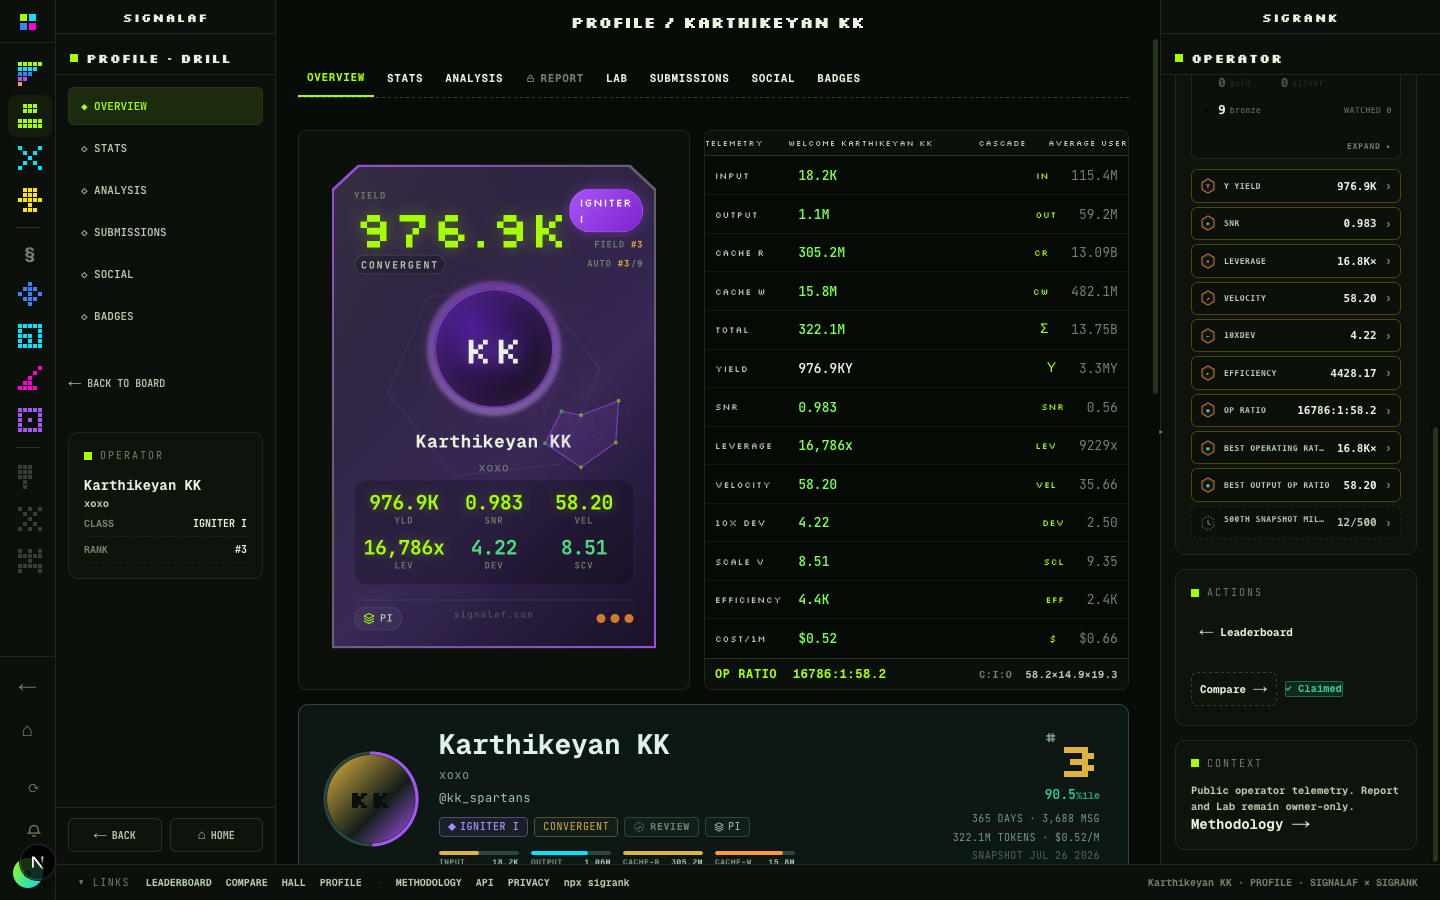
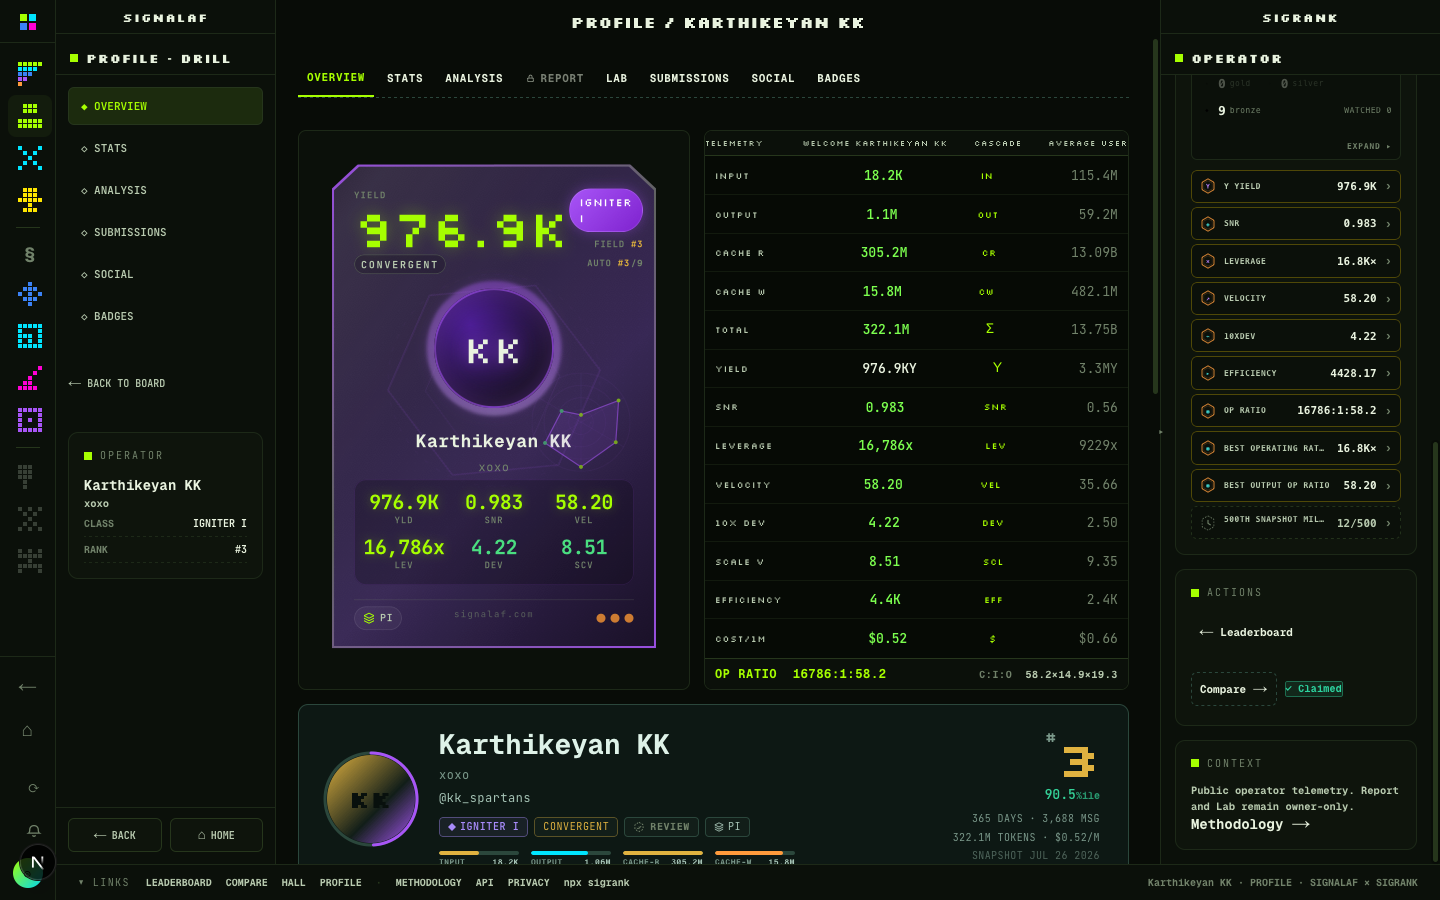
fix(profile): even ticker gaps, scaled rail heatmap, centered popups
- FlapBoard: columns size to content with justify-content:space-between —
  equal gaps everywhere, no dead gutter between operator and cascade.
- SUBMISSION ACTIVITY: the whole 22-week grid renders scaled inside the
  sidebar trigger; click opens the same map in a dialog centered in the
  window (fixed inset:0 + margin:auto).
- OPERATOR PROFILE mod yield uses compact formatting (976.9K, not
  976944.23 — matches the card shorthand).
- RailDialog trigger becomes role=button div (hosts block grid content).

e2e 36/36 PASS (full-scaled-heatmap in rail, centered dialog, equal
gaps, unchanged record dialogs/medallions).

Generated with [Devin](https://devin.ai)

diff --git a/components/profile-v2/profile-workspace.css b/components/profile-v2/profile-workspace.css
@@ -81,16 +81,16 @@
 
 /* Railway flap board — black phosphor stats terminal (mock .flapboard). */
 .lbw-root .pv2 .pv2-flapboard{background:#060a05;border:1px solid var(--line);border-radius:8px;overflow:hidden;display:flex;flex-direction:column;min-width:0}
-.lbw-root .pv2 .pv2-flap-cols{display:grid;grid-template-columns:minmax(8.5ch,auto) auto minmax(2ch,1fr) auto;column-gap:12px;border-bottom:1px solid var(--line2);background:var(--bg2)}
+.lbw-root .pv2 .pv2-flap-cols{display:grid;grid-template-columns:minmax(8.5ch,max-content) max-content max-content max-content;justify-content:space-between;column-gap:14px;border-bottom:1px solid var(--line2);background:var(--bg2)}
 .lbw-root .pv2 .pv2-flap-cols span{font-family:var(--pv2-display,monospace);font-size:8px;letter-spacing:.12em;color:var(--tx2);padding:6px 0;text-transform:uppercase;white-space:nowrap}
-.lbw-root .pv2 .pv2-flap-cols span:nth-child(3){text-align:right;padding-right:10px}
+.lbw-root .pv2 .pv2-flap-cols span:nth-child(3){text-align:right}
 .lbw-root .pv2 .pv2-flap-cols span:nth-child(4){text-align:right}
 .lbw-root .pv2 .pv2-flap-rows{display:flex;flex-direction:column;padding:1px 0;flex:1}
-.lbw-root .pv2 .pv2-flap-row{display:grid;grid-template-columns:minmax(8.5ch,auto) auto minmax(2ch,1fr) auto;column-gap:12px;align-items:center;padding:3.5px 10px;border-bottom:1px solid rgba(29,41,24,.5);font-variant-numeric:tabular-nums;flex:1}
+.lbw-root .pv2 .pv2-flap-row{display:grid;grid-template-columns:minmax(8.5ch,max-content) max-content max-content max-content;justify-content:space-between;column-gap:14px;align-items:center;padding:3.5px 10px;border-bottom:1px solid rgba(29,41,24,.5);font-variant-numeric:tabular-nums;flex:1}
 .lbw-root .pv2 .pv2-flap-row:last-child{border-bottom:none}
 .lbw-root .pv2 .pv2-flap-row .fk{font-family:var(--pv2-display,monospace);font-size:9px;letter-spacing:.1em;color:var(--tx2);text-transform:uppercase}
 .lbw-root .pv2 .pv2-flap-row .fv{font-family:var(--pv2-mono,monospace);font-size:13px;font-weight:600;color:#7cff4f;text-align:left}
-.lbw-root .pv2 .pv2-flap-row .ck{font-family:var(--pv2-display,monospace);font-size:9px;letter-spacing:.08em;color:var(--ac);text-align:right;padding-right:10px;justify-self:end}
+.lbw-root .pv2 .pv2-flap-row .ck{font-family:var(--pv2-display,monospace);font-size:9px;letter-spacing:.08em;color:var(--ac);text-align:right}
 .lbw-root .pv2 .pv2-flap-row .cv{font-family:var(--pv2-mono,monospace);font-size:13px;font-weight:600;color:#b9cbb0;text-align:right}
 .lbw-root .pv2 .pv2-flap-row .cv.avg{color:#71826a;font-weight:400}
 .lbw-root .pv2 .pv2-flap-row .fv.gold{color:var(--gold)}
@@ -198,7 +198,7 @@
 .lbw-root .prl-rec-chev{color:var(--mut);font-size:12px;flex-shrink:0}
 
 /* Record detail dialog. */
-.lbw-root .prl-dialog{border:1px solid var(--line2);border-radius:10px;background:var(--bg);color:var(--tx);padding:0;max-width:360px;width:calc(100vw - 48px);box-shadow:0 24px 70px rgba(0,0,0,.6)}
+.lbw-root .prl-dialog{position:fixed;inset:0;margin:auto;height:fit-content;max-height:85vh;overflow:auto;border:1px solid var(--line2);border-radius:10px;background:var(--bg);color:var(--tx);padding:0;max-width:360px;width:calc(100vw - 48px);box-shadow:0 24px 70px rgba(0,0,0,.6)}
 .lbw-root .prl-dialog::backdrop{background:rgba(0,0,0,.55);backdrop-filter:blur(2px)}
 .lbw-root .prl-dialog-card{padding:16px 18px}
 .lbw-root .prl-dialog-head{display:flex;align-items:center;gap:10px;padding-bottom:10px;border-bottom:1px solid var(--line)}
@@ -220,9 +220,11 @@
 .lbw-root .prl-open:focus-visible{outline:2px solid var(--ac);outline-offset:1px}
 .lbw-root .prl-open-hint{align-self:flex-end;font:600 8px var(--pv2-mono,monospace);letter-spacing:.1em;color:var(--mut)}
 .lbw-root .prl-open:hover .prl-open-hint{color:var(--ac)}
-/* Weekly spark strip — 22 cells, one per week (last lit day wins). */
-.lbw-root .prl-spark{display:grid;grid-template-columns:repeat(22,1fr);gap:2px;width:100%}
-.lbw-root .prl-spark i{aspect-ratio:1/1.6;border-radius:1.5px;background:var(--bg);border:1px solid rgba(255,255,255,.03)}
+/* Rail-scaled heatmap — same grid compressed to sidebar width. */
+.lbw-root .prl-heat--rail .prl-heat-grid{gap:1.5px}
+.lbw-root .prl-heat--rail .prl-heat-col{gap:1.5px}
+.lbw-root .prl-heat--rail .prl-heat-cell{border-radius:1.5px}
+.lbw-root .prl-heat--rail .prl-heat-stats{margin-top:6px;padding-top:6px}
 /* Trigger strips keep their compact spacing inside the button. */
 .lbw-root .prl-open .prl-heat-stats{margin-top:0;padding-top:0;border-top:0}
 .lbw-root .prl-open .prl-medals{margin-top:0}

diff --git a/components/profile-v2/ProfileRailPanels.tsx b/components/profile-v2/ProfileRailPanels.tsx
@@ -185,13 +185,8 @@ export async function ProfileRailPanels({ row }: { row: LeaderboardRow }) {
     const ab = new Date((startDay + w * 7) * dayMs).toUTCString().slice(8, 11).toUpperCase();
     if (monthSet[monthSet.length - 1] !== ab) monthSet.push(ab);
   }
-  // Weekly spark strip for the compact rail trigger: one cell per week —
-  // the last lit day's color, else unlit.
-  const weekColors = Array.from({ length: 22 }, (_, w) => {
-    const wk = cells.slice(w * 7, w * 7 + 7);
-    for (let d = wk.length - 1; d >= 0; d--) if (wk[d].bg) return wk[d].bg;
-    return null;
-  });
+  /* The full 154-cell grid renders scaled inside the rail trigger and again
+     (same cells) inside the centered popup — no separate preview data. */
 
   /* ── Records (items 8–10): static Hall + dynamic top-3 standings ─────── */
   const names = new Set<string>([codename]);
@@ -319,8 +314,9 @@ export async function ProfileRailPanels({ row }: { row: LeaderboardRow }) {
         </div>
       </div>
 
-      {/* SUBMISSION ACTIVITY — compact strip; full grid pops up in-window
-          on click (owner direction — never a stage-body element). */}
+      {/* SUBMISSION ACTIVITY — the whole 22-week grid scaled into the
+          sidebar; click pops the same map centered in-window with the
+          legend (owner direction — never a stage-body element). */}
       <div className="mod">
         <h3><span className="sq" />SUBMISSION ACTIVITY</h3>
         <RailDialog
@@ -328,19 +324,23 @@ export async function ProfileRailPanels({ row }: { row: LeaderboardRow }) {
           title="SUBMISSION ACTIVITY"
           subtitle={`DAILY YIELD VS OPERATOR BASELINE · ${operator.account_age_days}D · ${num(operator.total_messages_lifetime)} MSG`}
           trigger={
-            <>
-              <span className="prl-heat-stats">
+            <div className="prl-heat prl-heat--rail">
+              <div className="prl-heat-grid">
+                {Array.from({ length: 22 }, (_, w) => (
+                  <div key={w} className="prl-heat-col">
+                    {cells.slice(w * 7, w * 7 + 7).map((cell, d) => (
+                      <div key={d} className="prl-heat-cell" style={cell.bg ? { background: cell.bg } : undefined} />
+                    ))}
+                  </div>
+                ))}
+              </div>
+              <div className="prl-heat-stats">
                 <span><b>{active.length}</b>ACTIVE</span>
                 <span><b>{longest}</b>BEST</span>
                 <span><b>{streak}</b>STREAK</span>
                 <span><b>{yields.length ? compact(yields[yields.length - 1]) : "—"}</b>PEAK Υ</span>
-              </span>
-              <span className="prl-spark" aria-hidden="true">
-                {weekColors.map((c, w) => (
-                  <i key={w} style={c ? { background: c } : undefined} />
-                ))}
-              </span>
-            </>
+              </div>
+            </div>
           }
         >
           <div className="prl-heat">

diff --git a/app/user/[codename]/page.tsx b/app/user/[codename]/page.tsx
@@ -88,6 +88,14 @@ function resolveName(operator: Operator): string {
   return operator.display_name ?? operator.codename;
 }
 
+// Compact yield for the rail OPERATOR PROFILE mod — matches the card's
+// Υ shorthand (976.9K, not the raw 976944.23).
+const compactYield = (n: number): string =>
+  n >= 1e9 ? `${(n / 1e9).toFixed(2)}B`
+    : n >= 1e6 ? `${(n / 1e6).toFixed(2)}M`
+    : n >= 1e3 ? `${(n / 1e3).toFixed(1)}K`
+    : n.toFixed(0);
+
 export async function generateMetadata({
   params,
 }: {
@@ -176,7 +184,7 @@ export default async function OperatorProfilePage({
     <ProfileWorkspace name={resolveName(operator)} codename={operator.codename}
       rank={row.pending ? null : fieldRank} tier={row.snapshot.class_tier}
       platform={operator.primary_domain}
-      yieldLabel={row.snapshot.cascade?.nonCompounding ? "—" : (row.snapshot.cascade?.yield_?.toFixed(2) ?? "—")}
+      yieldLabel={row.snapshot.cascade?.nonCompounding ? "—" : (row.snapshot.cascade?.yield_ != null ? compactYield(row.snapshot.cascade.yield_) : "—")}
       actions={<div className="flex flex-wrap items-center justify-between gap-4">
         <Link
           href="/board/all"

diff --git a/components/profile-v2/RailDialog.tsx b/components/profile-v2/RailDialog.tsx
@@ -28,18 +28,24 @@ interface RailDialogProps {
 export function RailDialog({ title, subtitle, trigger, children, wide }: RailDialogProps) {
   const ref = useRef<HTMLDialogElement>(null);
   const close = () => ref.current?.close();
+  const open = () => ref.current?.showModal();
 
   return (
     <>
-      <button
-        type="button"
+      {/* role=button (not <button>) — the trigger hosts block content
+          (the scaled heatmap grid), which is invalid inside a button. */}
+      <div
+        role="button"
+        tabIndex={0}
         className="prl-open"
-        onClick={() => ref.current?.showModal()}
+        onClick={open}
+        onKeyDown={(e) => { if (e.key === "Enter" || e.key === " ") { e.preventDefault(); open(); } }}
         aria-haspopup="dialog"
+        aria-label={`${title} — expand`}
       >
         {trigger}
         <span className="prl-open-hint" aria-hidden="true">EXPAND ▸</span>
-      </button>
+      </div>
       <dialog
         ref={ref}
         className={`prl-dialog${wide ? " prl-dialog--wide" : ""}`}
